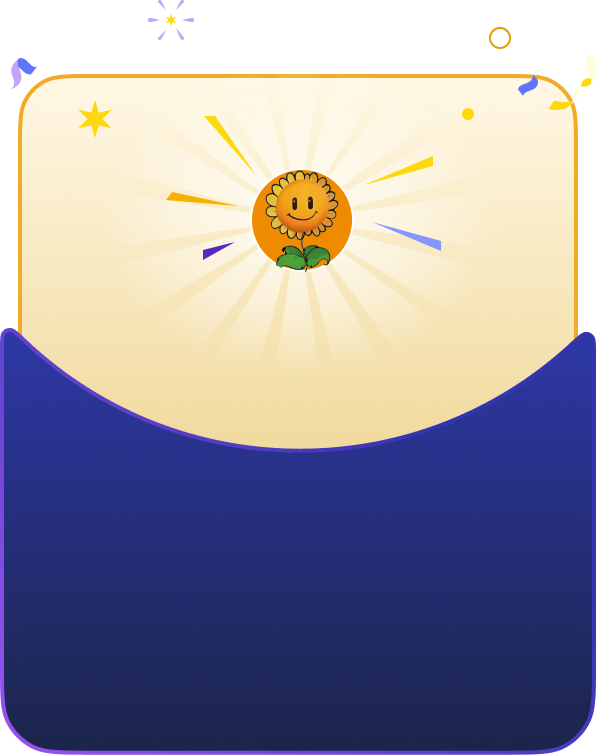
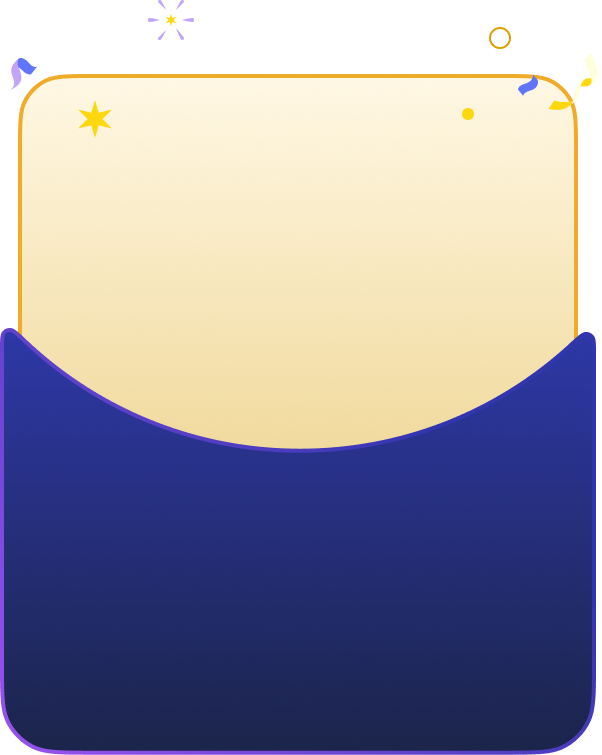
update

Changed region(s): [[0.2691, 0.1523, 0.7475, 0.4265], [0.6279, 0.2132, 0.7176, 0.2437]]

diff --git a/views/luckyWheel/modal/result/index.tsx b/views/luckyWheel/modal/result/index.tsx
@@ -35,7 +35,12 @@ const ResultModal: FC<IProps> = ({ onClose }): ReactElement => {
         <Modal open={true} footer={null} onCancel={() => onClose()} className={classNames(css.view, 'luckyWheel-result-modal')}>
             <section className={classNames(css.main, openLuckGameResult.type === ResultStatus.success ? css.success : openLuckGameResult.type === ResultStatus.noJoin ? css.noJoin : openLuckGameResult.type === ResultStatus.failed ? css.fail : '')}>
                 <div className={classNames(css.tip, openLuckGameResult.type === ResultStatus.success ? css.tip_success : '')}>{getTipFont(openLuckGameResult.type)}</div>
-                {[ResultStatus.success, ResultStatus.failed].includes(openLuckGameResult.type) && <img className={css.gift} src="/images/luckWheel/modal/gift.png" alt="" />}
+                {[ResultStatus.success, ResultStatus.failed].includes(openLuckGameResult.type) && (
+                    <>
+                        <img className={css.gift} src="/images/luckWheel/modal/gift.png" alt="" />
+                        <img className={css.mask} src="/images/luckWheel/modal/mask.png" alt="" />
+                    </>
+                )}
                 {openLuckGameResult.type !== ResultStatus.noJoin && (
                     <div className={css.cont}>
                         {openLuckGameResult.type === ResultStatus.success && <img src="/images/luckWheel/modal/reward.png" alt="" />}

diff --git a/views/riseFall/styles/result.module.scss b/views/riseFall/styles/result.module.scss
@@ -15,6 +15,15 @@
             .tip {
                 top: 0.23rem;
             }
+            .gift {
+                top: 0.32rem;
+            }
+            .mask {
+                top: 0.18rem;
+            }
+            .reward_icon {
+                top: 0.8rem;
+            }
             .cont {
                 padding-top: 1.43rem;
                 h5 {
@@ -45,6 +54,39 @@
             }
         }
 
+        .gift {
+            position: absolute;
+            top: 0.86rem;
+            left: 50%;
+            transform: translateX(-50%);
+            width: 2rem;
+        }
+        .mask {
+            @keyframes rotate {
+                0% {
+                    transform: translateX(-50%) rotate(0deg);
+                }
+                100% {
+                    transform: translateX(-50%) rotate(360deg);
+                }
+            }
+            position: absolute;
+            top: 0.74rem;
+            left: 50%;
+            transform: translateX(-50%);
+            width: 1.7rem;
+            animation: rotate 5s linear infinite;
+        }
+
+        .reward_icon {
+            width: 0.5rem;
+            height: 0.5rem;
+            margin-bottom: 0.08rem;
+            position: absolute;
+            top: 1.34rem;
+            left: 50%;
+            transform: translateX(-50%);
+        }
         .cont {
             position: relative;
             z-index: 3;

diff --git a/views/riseFall/modal/result/index.tsx b/views/riseFall/modal/result/index.tsx
@@ -32,6 +32,16 @@ const ResultModal: FC<IProps> = ({ onClose }): ReactElement => {
         <Modal open={true} footer={null} onCancel={() => onClose()} className={classNames(css.view, 'luckyWheel-result-modal')}>
             <section className={classNames(css.main, openBtcGameResult.type === ResultStatus.success ? css.success : '')}>
                 <div className={classNames(css.tip, openBtcGameResult.type === ResultStatus.success ? css.tip_success : '')}>{getTipFont(openBtcGameResult.type)}</div>
+                {[ResultStatus.success, ResultStatus.failed].includes(openBtcGameResult.type) && (
+                    <>
+                        <img className={css.gift} src="/images/luckWheel/modal/gift.png" alt="" />
+                        <img className={css.mask} src="/images/luckWheel/modal/mask.png" alt="" />
+                    </>
+                )}
+
+                {openBtcGameResult.type === ResultStatus.failed && <img className={css.reward_icon} src="/images/rise-fall/modal/success_icon.png" alt="" />}
+                {openBtcGameResult.type === ResultStatus.success && <img className={css.reward_icon} src="/images/symbol/NMS.svg" alt="" />}
+
                 <div className={css.cont}>
                     {openBtcGameResult.type === ResultStatus.success ? (
                         <h5>

diff --git a/views/luckyWheel/styles/result.module.scss b/views/luckyWheel/styles/result.module.scss
@@ -48,6 +48,22 @@
             transform: translateX(-50%);
             width: 2.18rem;
         }
+        .mask {
+            @keyframes rotate {
+                0% {
+                    transform: translateX(-50%) rotate(0deg);
+                }
+                100% {
+                    transform: translateX(-50%) rotate(360deg);
+                }
+            }
+            position: absolute;
+            top: -0.12rem;
+            left: 50%;
+            transform: translateX(-50%);
+            width: 1.7rem;
+            animation: rotate 5s linear infinite;
+        }
         .cont {
             position: relative;
             z-index: 3;

diff --git a/views/riseFall/index.tsx b/views/riseFall/index.tsx
@@ -22,7 +22,7 @@ const Main: FC = (): ReactElement => {
             }
             backgroundAudio.current.play();
         } else {
-            backgroundAudio.current.pause();
+            backgroundAudio.current?.pause();
         }
     }, [voice]);
 
